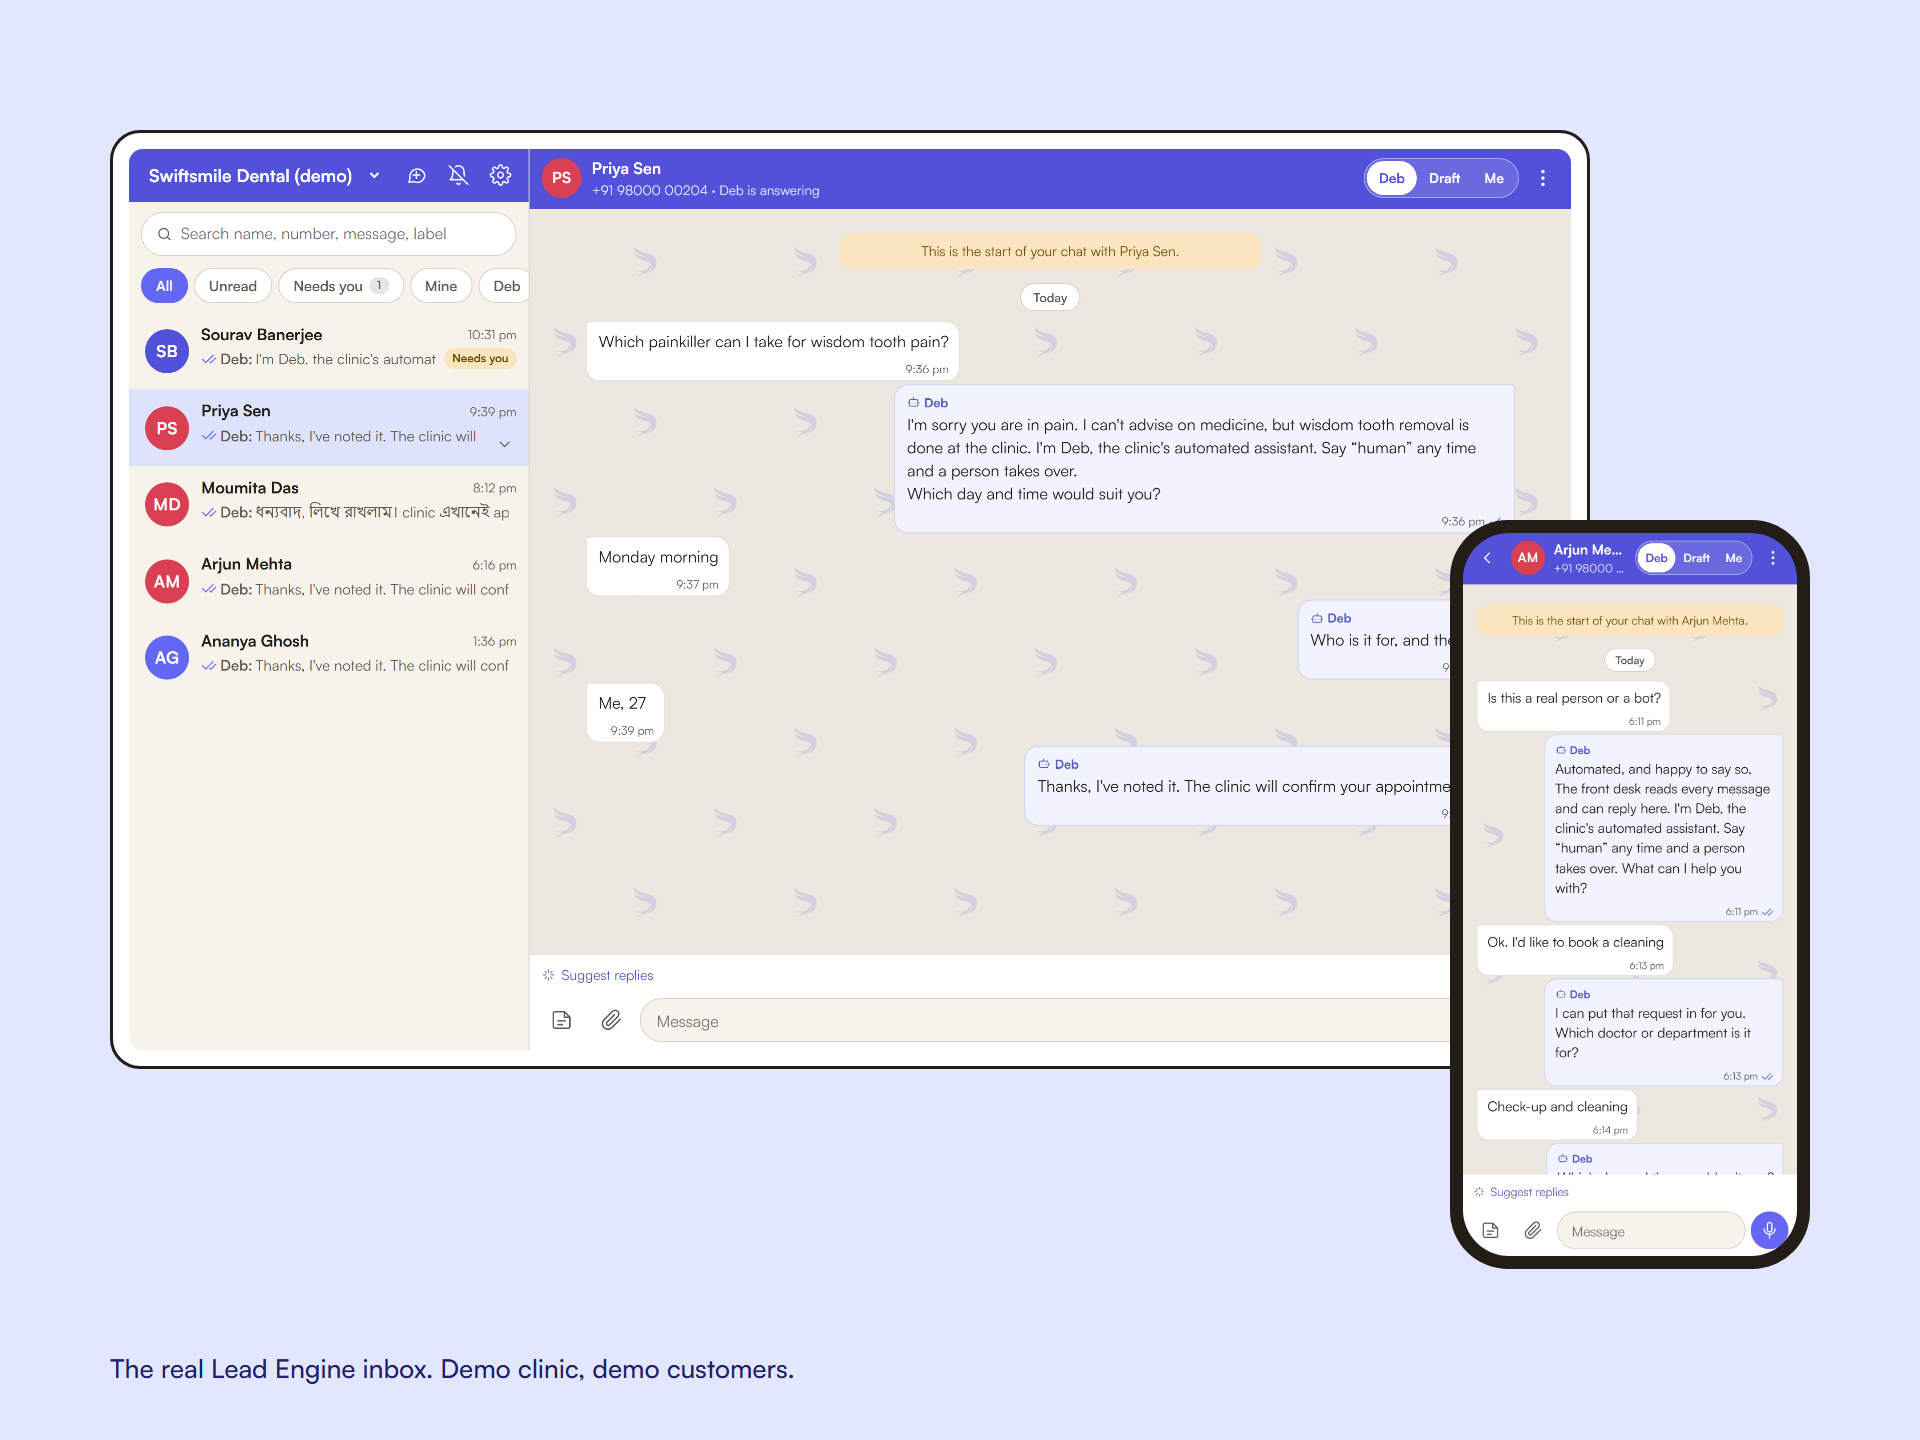
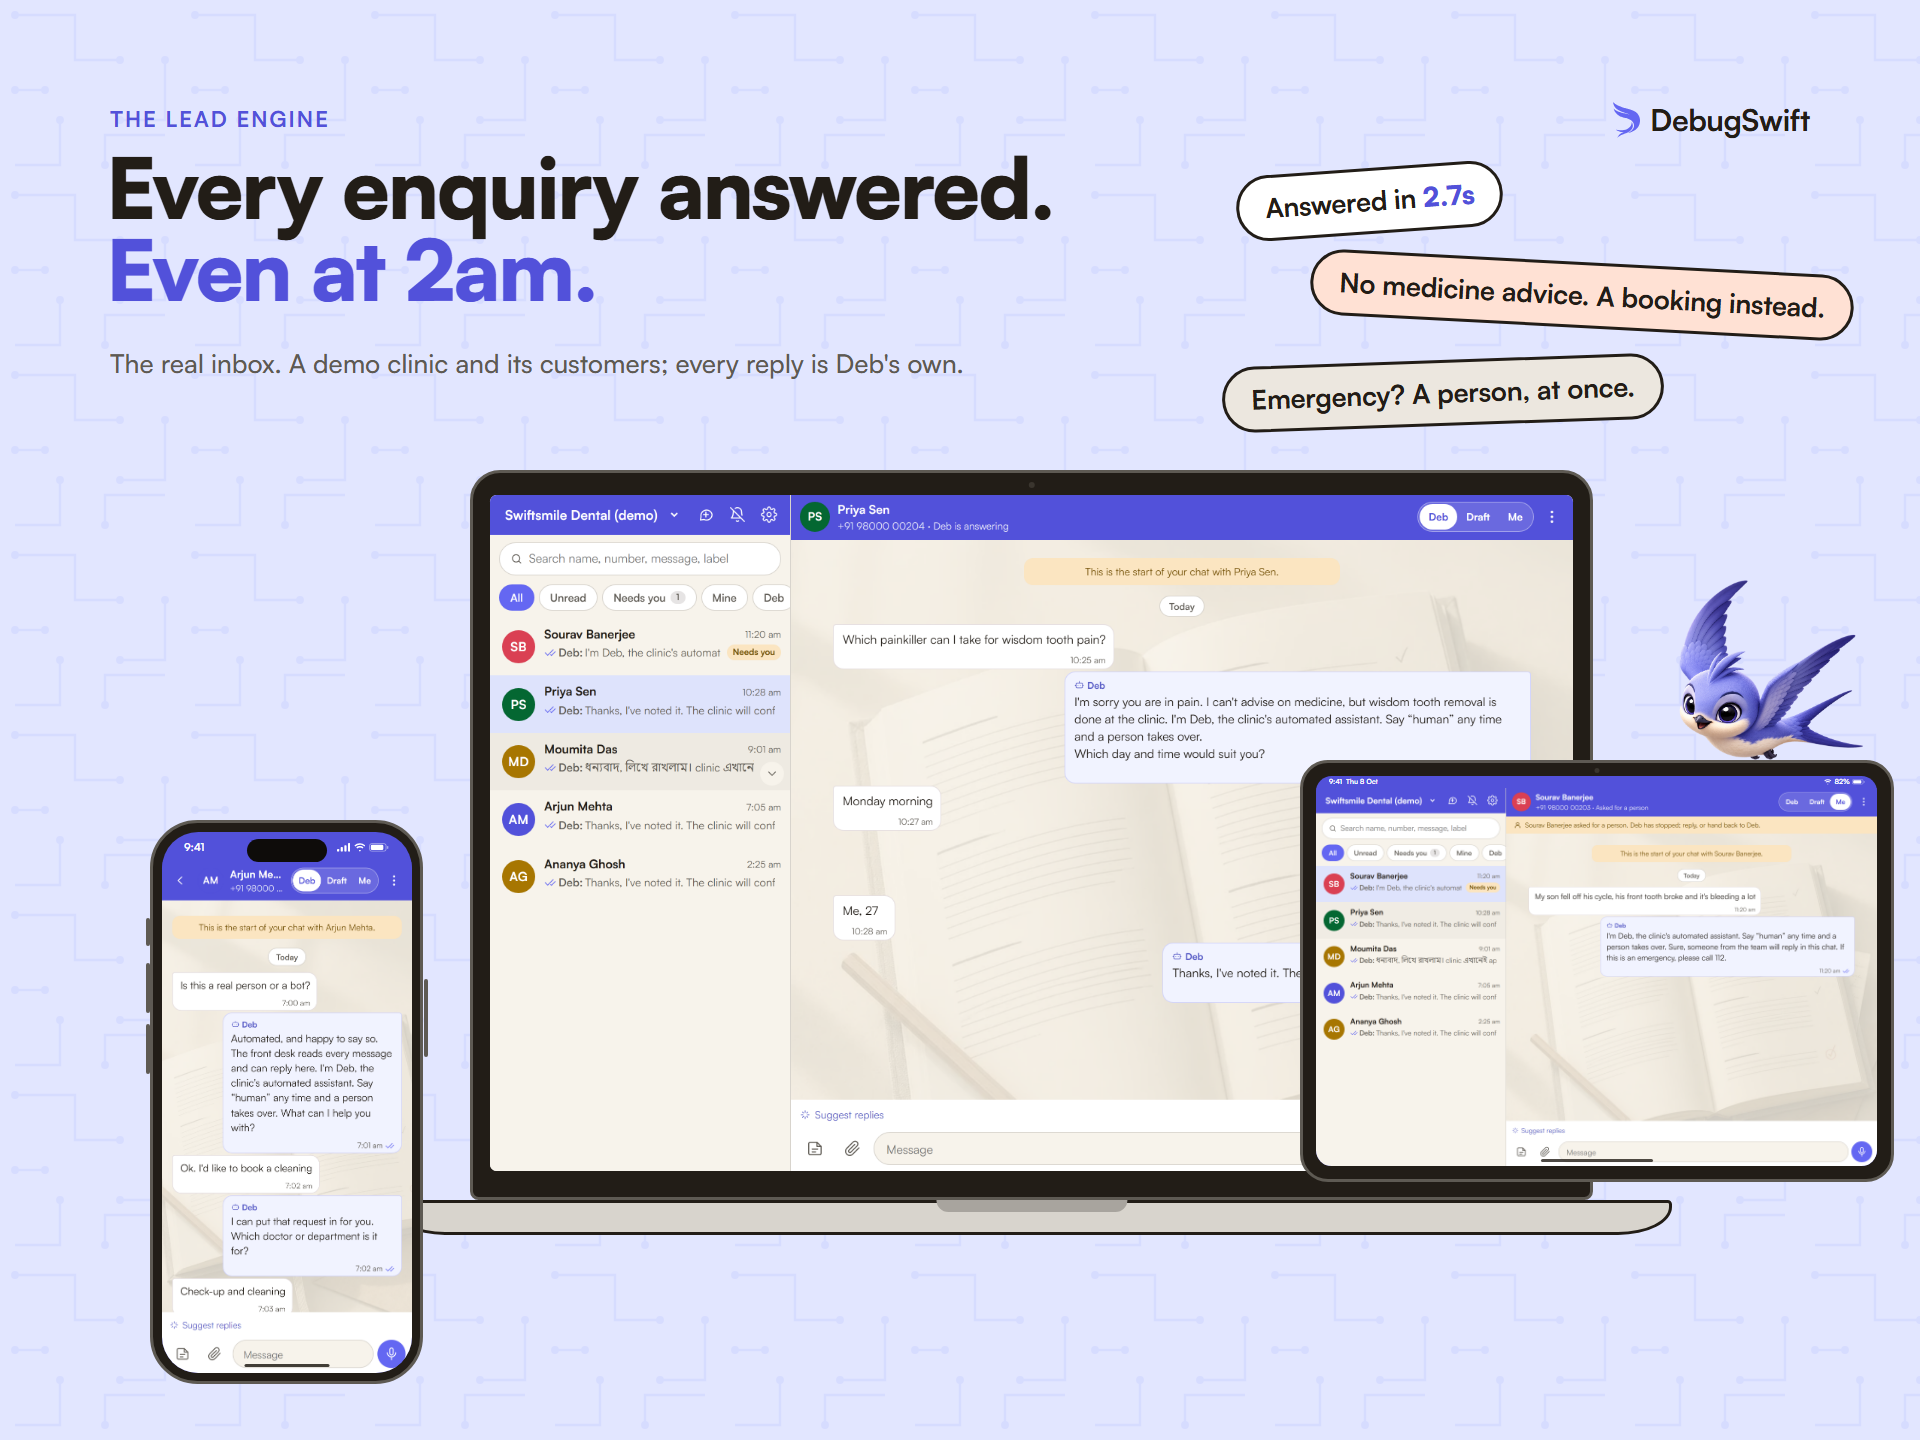
Showcase: laptop, tablet and phone, with realistic device detail

diff --git a/README.md b/README.md
@@ -6,7 +6,7 @@
 
 Lead Engine runs on a business's own WhatsApp Business number. It answers every enquiry straight away, asks the questions that tell you whether a lead is worth your time, and captures a booking or callback while the lead is still warm. Your team sees every conversation in one inbox, on phone and computer.
 
-![The real Lead Engine inbox on desktop and phone, with a demo dental clinic's chats](assets/inbox.png)
+![The real Lead Engine inbox on a laptop, a tablet and a phone: a medicine question Deb won't answer, an emergency handed straight to a person, and "are you a bot?"](assets/inbox.png)
 
 *The real product. The clinic and its customers are a demo; every reply from Deb is the engine's own.*
 
@@ -35,7 +35,6 @@ Each rule is checked in code before a reply is sent. A reply that breaks one is 
 - **[How it works](docs/how-it-works.md):** scope, the rules, the 7-day setup, languages, handing over to a person, and when not to buy it
 - **[Changelog](CHANGELOG.md):** what changed, and when
 
-![Three real conversations: a medicine question Deb won't answer, "are you a bot?", and an emergency handed straight to a person](assets/conversations.png)
 
 ## Try it
 

diff --git a/docs/how-it-works.md b/docs/how-it-works.md
@@ -8,7 +8,7 @@ The most expensive bug in a service business: leads that buy elsewhere because n
 
 The Lead Engine answers, qualifies, books and logs every enquiry, while you work, sleep or take a day off.
 
-![Three real conversations from a demo dental clinic: a medicine question Deb won't answer, "are you a bot?", and an emergency handed straight to a person](../assets/conversations.png)
+![The real Lead Engine inbox with a demo dental clinic: a medicine question Deb won't answer, an emergency handed straight to a person, and "are you a bot?"](../assets/inbox.png)
 
 ## Five things, done properly
 
